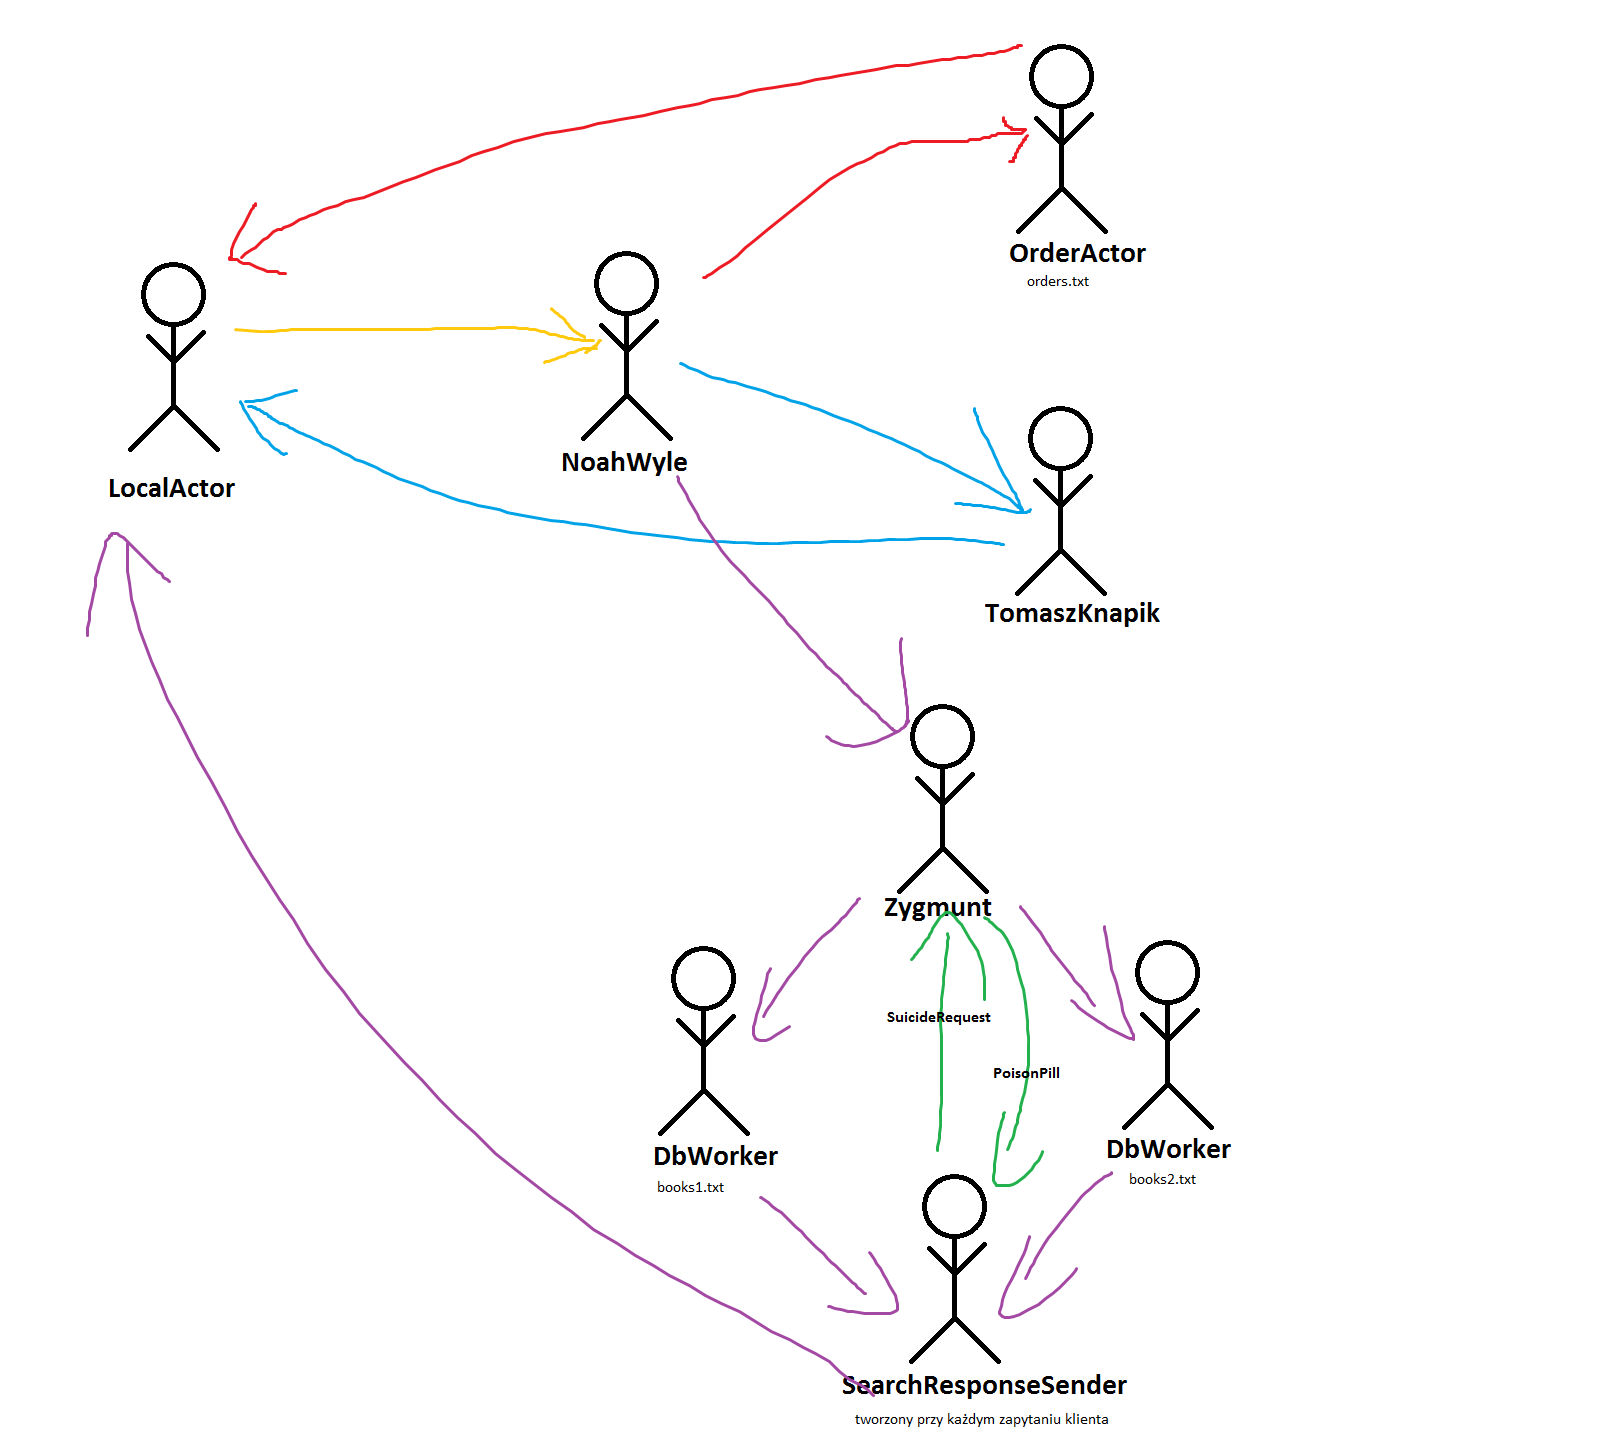
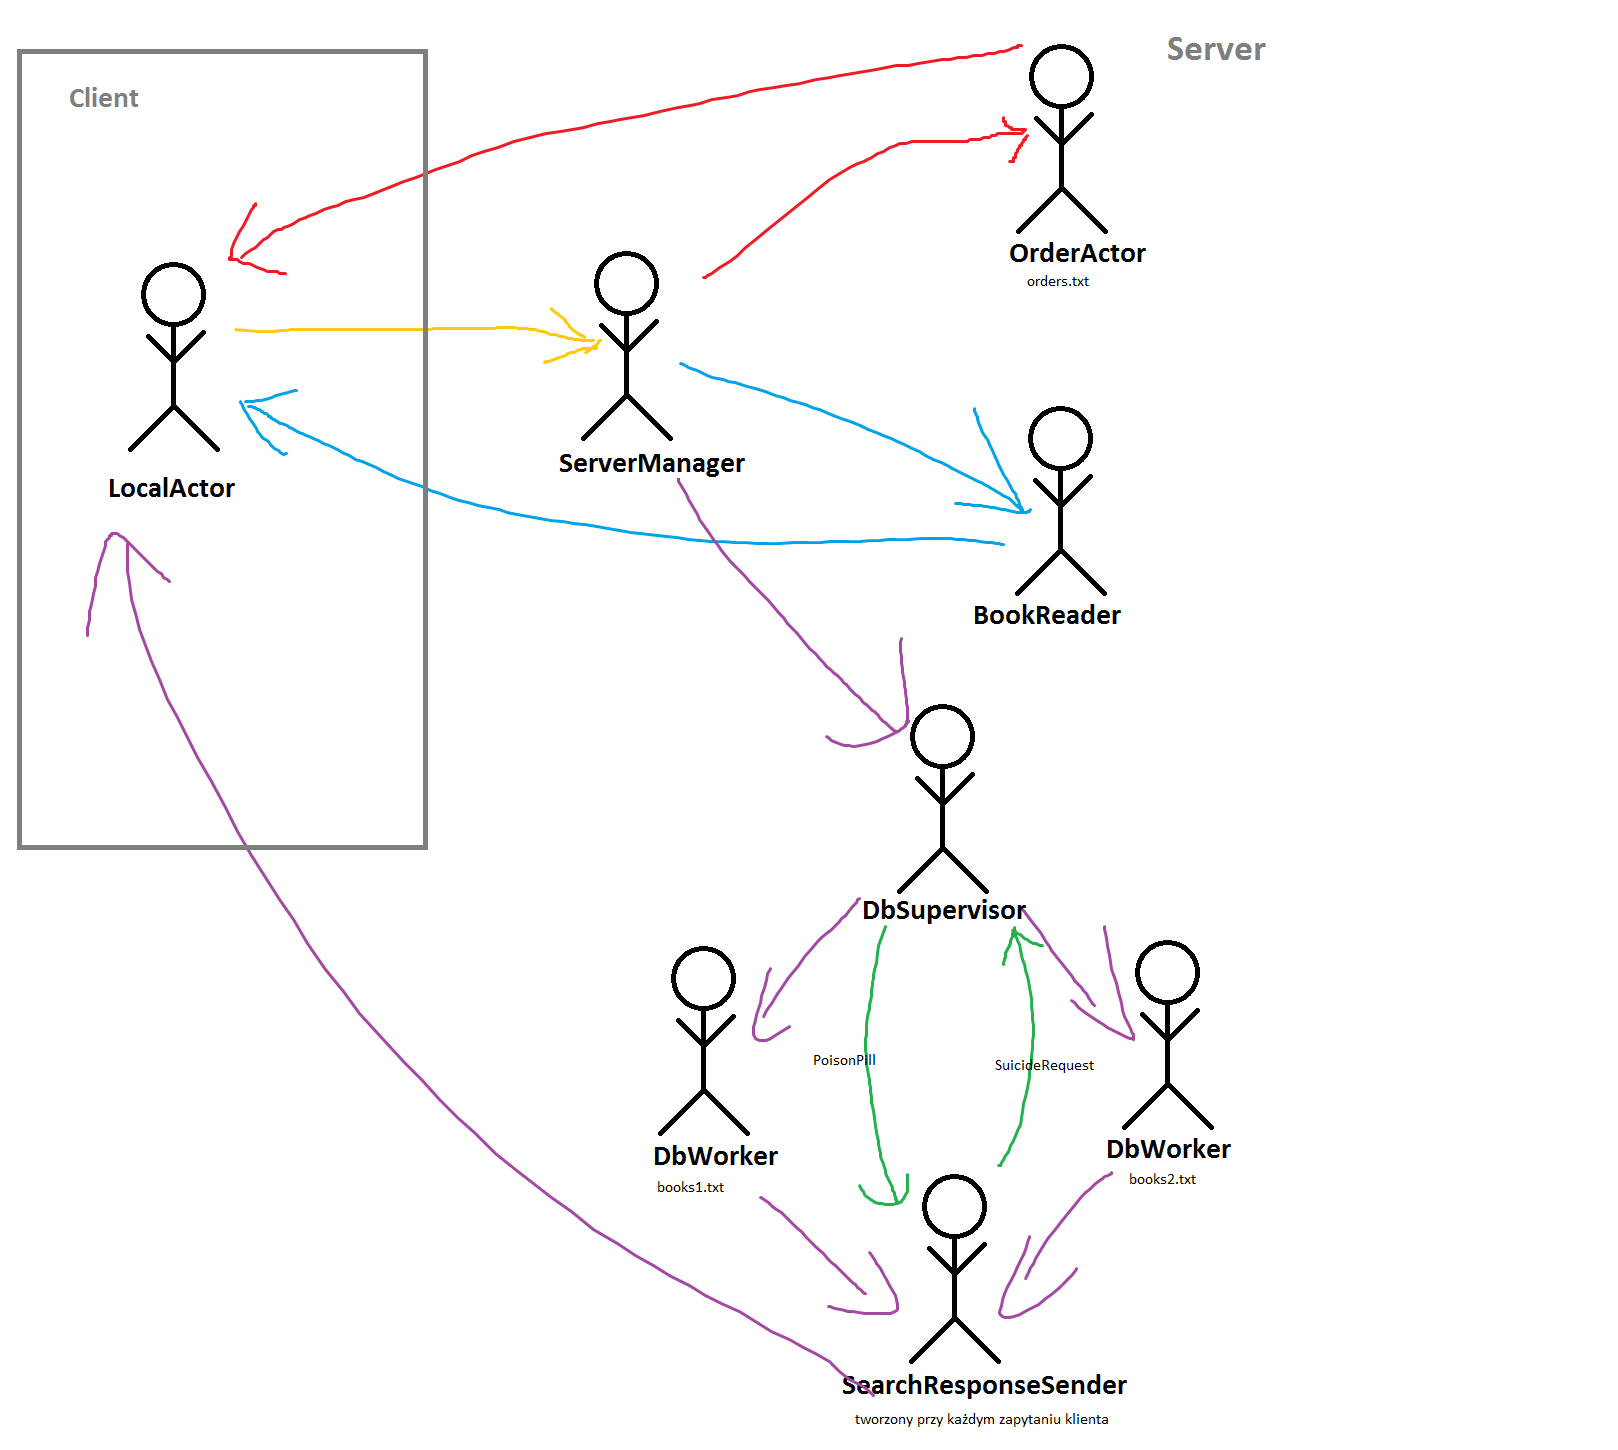
renamed classes

diff --git a/lab5/src/main/java/akka/server/ServerManager.java b/lab5/src/main/java/akka/server/ServerManager.java
@@ -11,7 +11,7 @@ import scala.concurrent.duration.Duration;
 
 import static akka.actor.SupervisorStrategy.restart;
 
-public class NoahWyle extends AbstractActor {
+public class ServerManager extends AbstractActor {
 
     private final LoggingAdapter log = Logging.getLogger(getContext().getSystem(), this);
 
@@ -34,8 +34,8 @@ public class NoahWyle extends AbstractActor {
     @Override
     public void preStart() throws Exception {
         context().actorOf(Props.create(OrderActor.class), "orderReceiver");
-        context().actorOf(Props.create(TomaszKnapik.class), "reader");
-        context().actorOf(Props.create(Zygmunt.class), "dbManager");
+        context().actorOf(Props.create(BookReader.class), "reader");
+        context().actorOf(Props.create(DbSupervisor.class), "dbManager");
     }
 
     private static SupervisorStrategy strategy

diff --git a/lab5/src/main/java/akka/server/DbWorker.java b/lab5/src/main/java/akka/server/DbWorker.java
@@ -37,9 +37,10 @@ public class DbWorker extends AbstractActor {
                         } else {
                             getSender().tell(-1, getSelf());
                         }
-                        getContext().getParent().tell(new SuicideRequest(), getSelf());
                     } catch (IOException e) {
                         log.error(e.toString());
+                    } finally {
+                        getContext().getParent().tell(new SuicideRequest(), getSelf());
                     }
                 })
                 .matchAny(o -> log.info("received unknown message"))

diff --git a/lab5/src/main/java/akka/server/ServerApp.java b/lab5/src/main/java/akka/server/ServerApp.java
@@ -20,7 +20,7 @@ public class ServerApp {
 
         // create actor system & actors
         final ActorSystem system = ActorSystem.create("library", config);
-        final ActorRef remote = system.actorOf(Props.create(NoahWyle.class), "librarian");
+        final ActorRef remote = system.actorOf(Props.create(ServerManager.class), "librarian");
 
         // interaction
         BufferedReader br = new BufferedReader(new InputStreamReader(System.in));

diff --git a/lab5/src/main/java/akka/server/BookReader.java b/lab5/src/main/java/akka/server/BookReader.java
@@ -22,7 +22,7 @@ import java.nio.file.Paths;
 import java.util.concurrent.TimeUnit;
 import java.util.stream.Stream;
 
-public class TomaszKnapik extends AbstractActor {
+public class BookReader extends AbstractActor {
 
     private final LoggingAdapter log = Logging.getLogger(getContext().getSystem(), this);
 

diff --git a/lab5/src/main/java/akka/server/DbSupervisor.java b/lab5/src/main/java/akka/server/DbSupervisor.java
@@ -8,7 +8,7 @@ import scala.concurrent.duration.Duration;
 
 import static akka.actor.SupervisorStrategy.restart;
 
-public class Zygmunt extends AbstractActor {
+public class DbSupervisor extends AbstractActor {
 
     private final LoggingAdapter log = Logging.getLogger(getContext().getSystem(), this);
 
